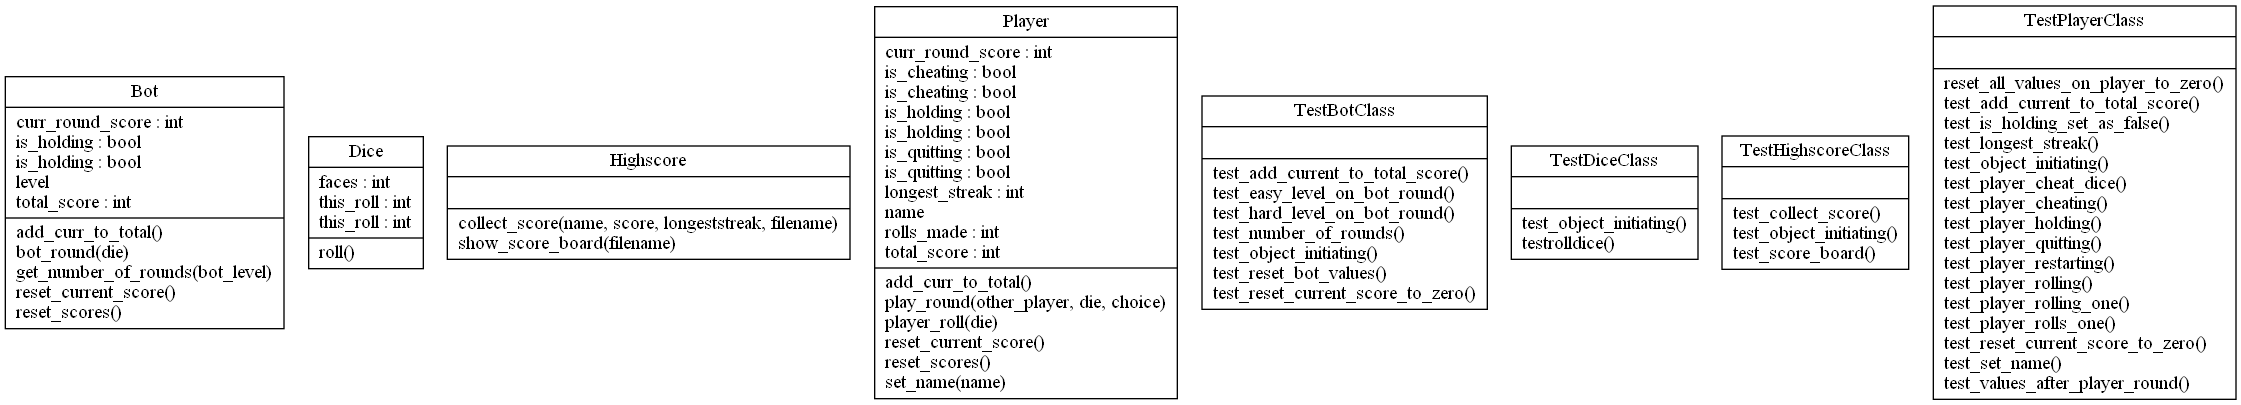
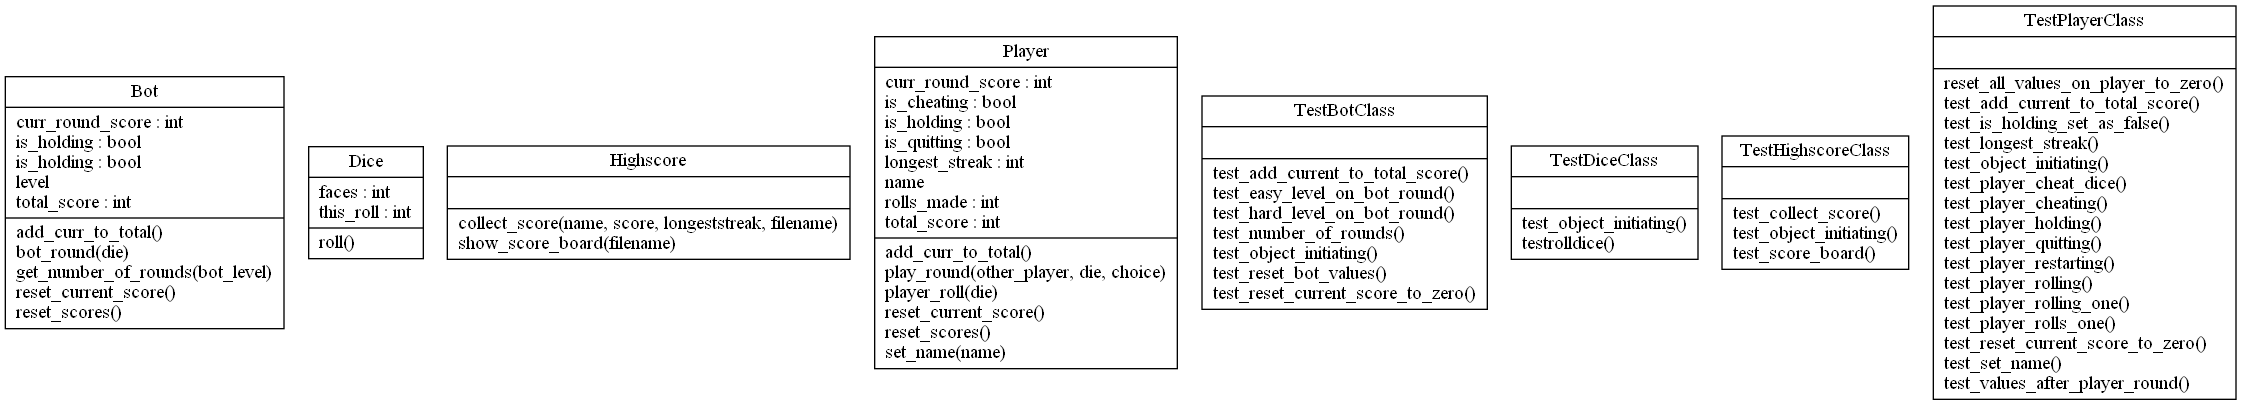
Fixed duals values in diagram

Changed region(s): [[0.3748, 0.0889, 0.531, 1.0], [0.1249, 0.3259, 0.1874, 0.6815], [0.4061, 0.0, 0.531, 0.0593]]

diff --git a/src/pigs/doc/pdoc/pigs/player.html b/src/pigs/doc/pdoc/pigs/player.html
@@ -48,9 +48,6 @@ From when the player starts rolling until they choose hold.
 class Player():
     &#34;&#34;&#34;Player class.&#34;&#34;&#34;
 
-    is_holding = False
-    is_cheating = False
-    is_quitting = False
 
     def __init__(self, name, curr_round_score,
                  total_score, rolls_made, longest_streak):
@@ -60,6 +57,9 @@ class Player():
         self.total_score = total_score
         self.rolls_made = rolls_made
         self.longest_streak = longest_streak
+        self.is_holding = False
+        self.is_cheating = False
+        self.is_quitting = False
 
     def set_name(self, name):
         &#34;&#34;&#34;Set name on player.&#34;&#34;&#34;
@@ -151,9 +151,6 @@ class Player():
 <pre><code class="python">class Player():
     &#34;&#34;&#34;Player class.&#34;&#34;&#34;
 
-    is_holding = False
-    is_cheating = False
-    is_quitting = False
 
     def __init__(self, name, curr_round_score,
                  total_score, rolls_made, longest_streak):
@@ -163,6 +160,9 @@ class Player():
         self.total_score = total_score
         self.rolls_made = rolls_made
         self.longest_streak = longest_streak
+        self.is_holding = False
+        self.is_cheating = False
+        self.is_quitting = False
 
     def set_name(self, name):
         &#34;&#34;&#34;Set name on player.&#34;&#34;&#34;
@@ -230,21 +230,6 @@ class Player():
             self.add_curr_to_total()
             self.reset_current_score()</code></pre>
 </details>
-<h3>Class variables</h3>
-<dl>
-<dt id="pigs.player.Player.is_cheating"><code class="name">var <span class="ident">is_cheating</span></code></dt>
-<dd>
-<div class="desc"></div>
-</dd>
-<dt id="pigs.player.Player.is_holding"><code class="name">var <span class="ident">is_holding</span></code></dt>
-<dd>
-<div class="desc"></div>
-</dd>
-<dt id="pigs.player.Player.is_quitting"><code class="name">var <span class="ident">is_quitting</span></code></dt>
-<dd>
-<div class="desc"></div>
-</dd>
-</dl>
 <h3>Methods</h3>
 <dl>
 <dt id="pigs.player.Player.add_curr_to_total"><code class="name flex">
@@ -395,9 +380,6 @@ class Player():
 <h4><code><a title="pigs.player.Player" href="#pigs.player.Player">Player</a></code></h4>
 <ul class="two-column">
 <li><code><a title="pigs.player.Player.add_curr_to_total" href="#pigs.player.Player.add_curr_to_total">add_curr_to_total</a></code></li>
-<li><code><a title="pigs.player.Player.is_cheating" href="#pigs.player.Player.is_cheating">is_cheating</a></code></li>
-<li><code><a title="pigs.player.Player.is_holding" href="#pigs.player.Player.is_holding">is_holding</a></code></li>
-<li><code><a title="pigs.player.Player.is_quitting" href="#pigs.player.Player.is_quitting">is_quitting</a></code></li>
 <li><code><a title="pigs.player.Player.play_round" href="#pigs.player.Player.play_round">play_round</a></code></li>
 <li><code><a title="pigs.player.Player.player_roll" href="#pigs.player.Player.player_roll">player_roll</a></code></li>
 <li><code><a title="pigs.player.Player.reset_current_score" href="#pigs.player.Player.reset_current_score">reset_current_score</a></code></li>

diff --git a/src/pigs/doc/pdoc/pigs/dice.html b/src/pigs/doc/pdoc/pigs/dice.html
@@ -44,11 +44,11 @@ class Dice():
     &#34;&#34;&#34;The dice class.&#34;&#34;&#34;
 
     faces = 6
-    this_roll = 0
 
     def __init__(self):
         &#34;&#34;&#34;Initiate a dice object.&#34;&#34;&#34;
         random.seed()
+        self.this_roll = 0
 
     def roll(self):
         &#34;&#34;&#34;Roll the dice.&#34;&#34;&#34;
@@ -80,11 +80,11 @@ class Dice():
     &#34;&#34;&#34;The dice class.&#34;&#34;&#34;
 
     faces = 6
-    this_roll = 0
 
     def __init__(self):
         &#34;&#34;&#34;Initiate a dice object.&#34;&#34;&#34;
         random.seed()
+        self.this_roll = 0
 
     def roll(self):
         &#34;&#34;&#34;Roll the dice.&#34;&#34;&#34;
@@ -95,10 +95,6 @@ class Dice():
 <h3>Class variables</h3>
 <dl>
 <dt id="pigs.dice.Dice.faces"><code class="name">var <span class="ident">faces</span></code></dt>
-<dd>
-<div class="desc"></div>
-</dd>
-<dt id="pigs.dice.Dice.this_roll"><code class="name">var <span class="ident">this_roll</span></code></dt>
 <dd>
 <div class="desc"></div>
 </dd>
@@ -144,7 +140,6 @@ class Dice():
 <ul class="">
 <li><code><a title="pigs.dice.Dice.faces" href="#pigs.dice.Dice.faces">faces</a></code></li>
 <li><code><a title="pigs.dice.Dice.roll" href="#pigs.dice.Dice.roll">roll</a></code></li>
-<li><code><a title="pigs.dice.Dice.this_roll" href="#pigs.dice.Dice.this_roll">this_roll</a></code></li>
 </ul>
 </li>
 </ul>

diff --git a/src/pigs/doc/pdoc/pigs/bot_test.html b/src/pigs/doc/pdoc/pigs/bot_test.html
@@ -71,7 +71,6 @@ class TestBotClass(unittest.TestCase):
         self.assertTrue(test_bot.curr_round_score == 0)
         self.assertTrue(test_bot.total_score == 0)
 
-    # Skriv om testen, för ibland klarar botjäveln att samla poäng
     def test_easy_level_on_bot_round(self):
         &#34;&#34;&#34;Testing the the easiest level on the bot.&#34;&#34;&#34;
         test_bot = bot.Bot(0, 0, 1)
@@ -152,7 +151,6 @@ not have a method with the specified name.</p></div>
         self.assertTrue(test_bot.curr_round_score == 0)
         self.assertTrue(test_bot.total_score == 0)
 
-    # Skriv om testen, för ibland klarar botjäveln att samla poäng
     def test_easy_level_on_bot_round(self):
         &#34;&#34;&#34;Testing the the easiest level on the bot.&#34;&#34;&#34;
         test_bot = bot.Bot(0, 0, 1)

diff --git a/src/pigs/player.py b/src/pigs/player.py
@@ -14,9 +14,6 @@ From when the player starts rolling until they choose hold.
 class Player():
     """Player class."""
 
-    is_holding = False
-    is_cheating = False
-    is_quitting = False
 
     def __init__(self, name, curr_round_score,
                  total_score, rolls_made, longest_streak):
@@ -26,6 +23,9 @@ class Player():
         self.total_score = total_score
         self.rolls_made = rolls_made
         self.longest_streak = longest_streak
+        self.is_holding = False
+        self.is_cheating = False
+        self.is_quitting = False
 
     def set_name(self, name):
         """Set name on player."""

diff --git a/src/pigs/bot.py b/src/pigs/bot.py
@@ -15,13 +15,13 @@ statistically hold before they’re rolling a one.
 class Bot():
     """Bot class."""
 
-    is_holding = True
 
     def __init__(self, curr_round_score, total_score, level):
         """Initiate a bot object."""
         self.curr_round_score = curr_round_score
         self.total_score = total_score
         self.level = level
+        self.is_holding = True
 
     def get_number_of_rounds(self, bot_level):
         """Get how many rounds bot should run based on level."""

diff --git a/src/pigs/bot_test.py b/src/pigs/bot_test.py
@@ -42,7 +42,6 @@ class TestBotClass(unittest.TestCase):
         self.assertTrue(test_bot.curr_round_score == 0)
         self.assertTrue(test_bot.total_score == 0)
 
-    # Skriv om testen, för ibland klarar botjäveln att samla poäng
     def test_easy_level_on_bot_round(self):
         """Testing the the easiest level on the bot."""
         test_bot = bot.Bot(0, 0, 1)

diff --git a/src/pigs/dice.py b/src/pigs/dice.py
@@ -14,11 +14,11 @@ class Dice():
     """The dice class."""
 
     faces = 6
-    this_roll = 0
 
     def __init__(self):
         """Initiate a dice object."""
         random.seed()
+        self.this_roll = 0
 
     def roll(self):
         """Roll the dice."""
